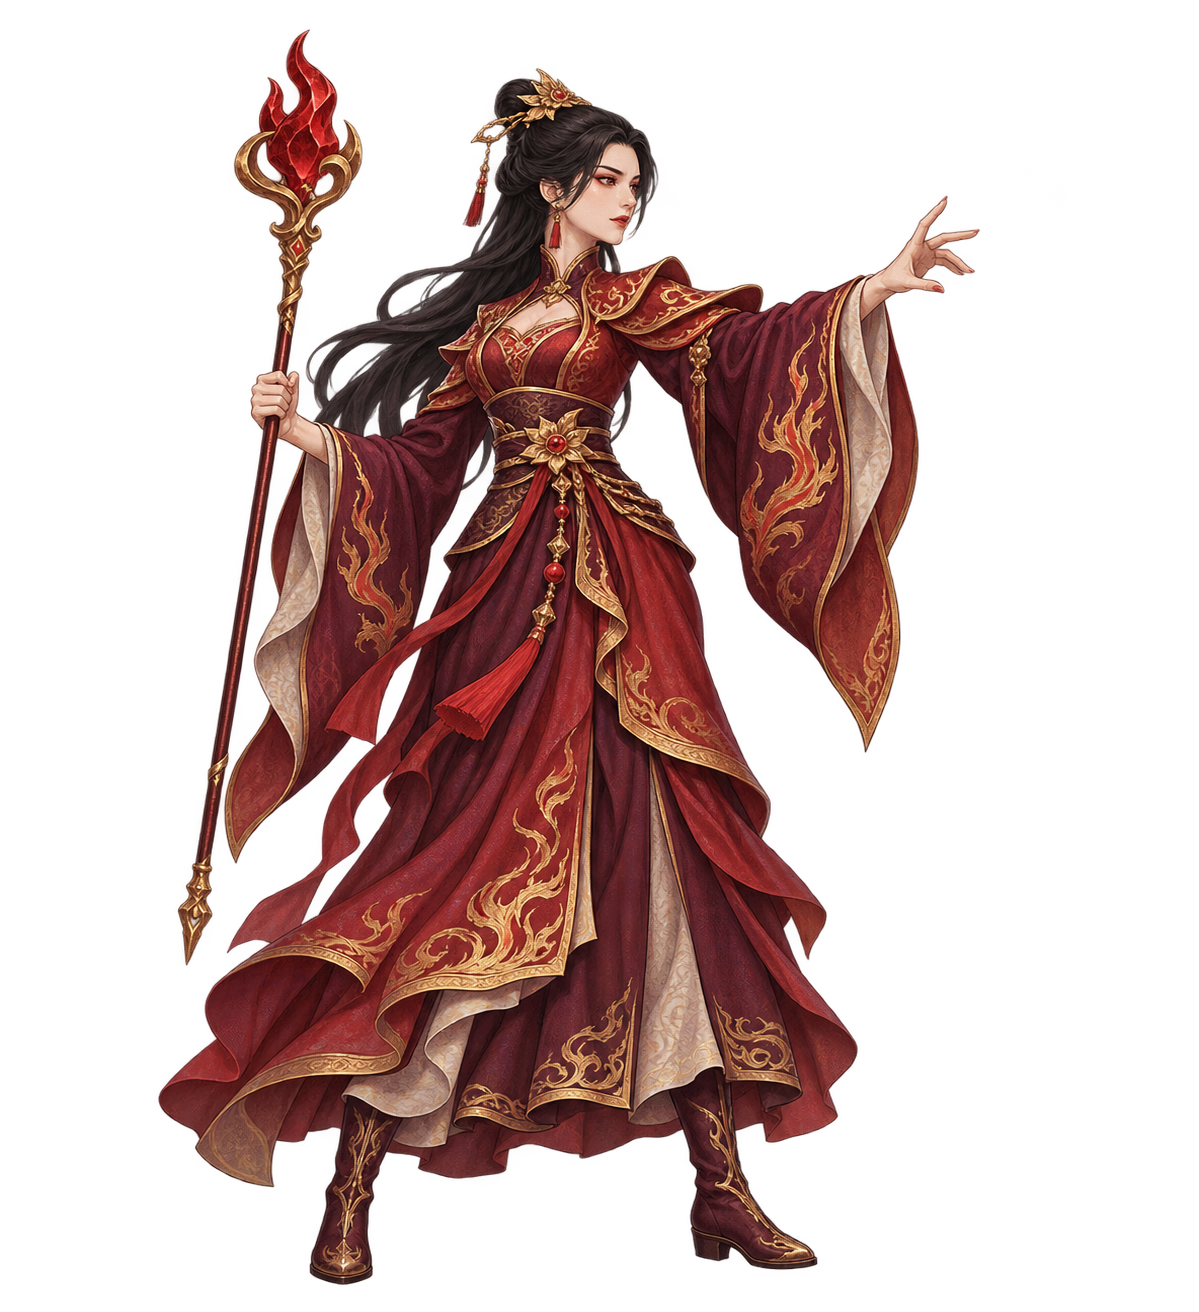
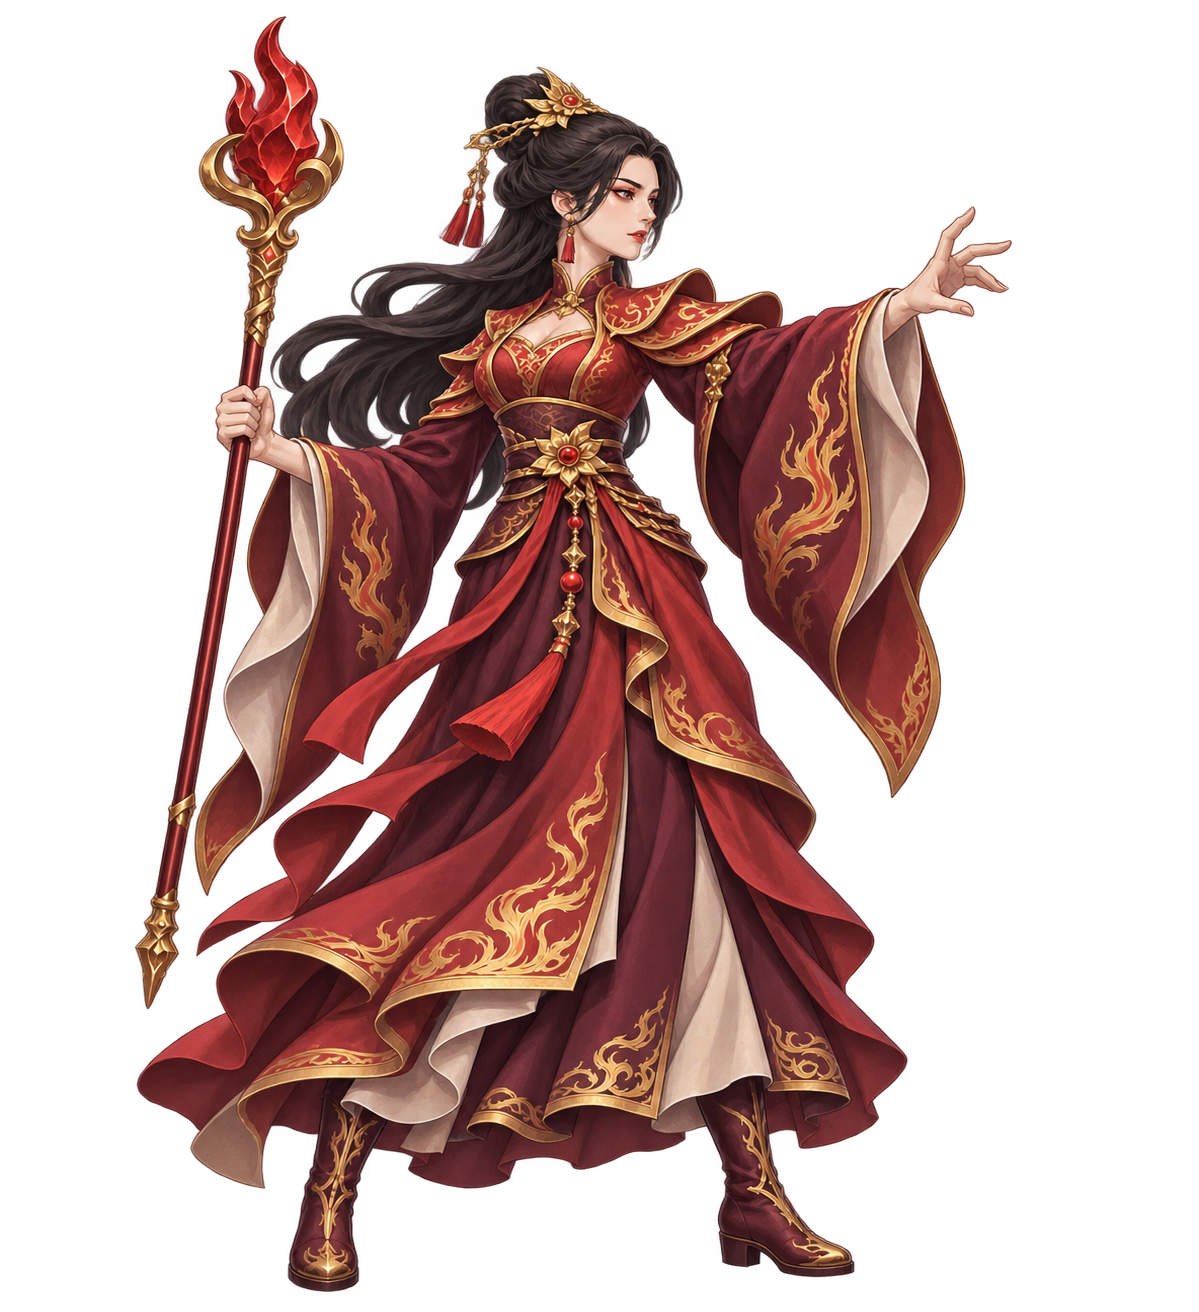
Adopt mage cloth readability improvement after real bright and dark A/B

diff --git a/assets/scripts/GameApp.ts b/assets/scripts/GameApp.ts
@@ -117,7 +117,7 @@ export class GameApp extends Component {
       left = Math.min(...edges); right = Math.max(...edges);
     } else {
       const art = this.fighterArt(unit.role, unit.heroId);
-      const bounds: Record<string, number[]> = { 'fighter-archer':[47,1091], 'fighter-mage':[158,980], 'fighter-blade':[92,1261], 'fighter-lotus':[170,1007], 'fighter-frost':[150,988], 'fighter-monk':[52,1150], 'fighter-guardian':[178,1022], 'fighter-healer':[129,1090], 'fighter-sword':[13,1216] };
+      const bounds: Record<string, number[]> = { 'fighter-archer':[47,1091], 'fighter-mage':[134,1012], 'fighter-blade':[92,1261], 'fighter-lotus':[170,1007], 'fighter-frost':[150,988], 'fighter-monk':[52,1150], 'fighter-guardian':[178,1022], 'fighter-healer':[129,1090], 'fighter-sword':[13,1216] };
       const [lo,hi] = bounds[art.name], scale = placement.bodyHeight / (art.groundY - art.bodyTop), mirror = unit.side === 'ally' ? 1 : -1;
       const edges = [lo,hi].map(x => placement.x + (x - art.groundX) * scale * mirror);
       left = Math.min(...edges); right = Math.max(...edges);
@@ -650,7 +650,7 @@ export class GameApp extends Component {
   // Future hero-specific illustrations supply their own anchors, not a shared crop.
   private fighterArt(role: string, heroId?: string) {
     if (heroId === 'archer') return { name: 'fighter-archer', groundX: 484, groundY: 1389, bodyTop: 25 };
-    if (heroId === 'mage') return { name: 'fighter-mage', groundX: 552, groundY: 1285, bodyTop: 70 };
+    if (heroId === 'mage') return { name: 'fighter-mage', groundX: 560, groundY: 1292, bodyTop: 66 };
     if (heroId === 'blade') return { name: 'fighter-blade', groundX: 459, groundY: 1183, bodyTop: 20 };
     if (heroId === 'lotus') return { name: 'fighter-lotus', groundX: 504, groundY: 1282, bodyTop: 45 };
     if (heroId === 'frost') return { name: 'fighter-frost', groundX: 528, groundY: 1283, bodyTop: 42 };

diff --git a/docs/independent-review.md b/docs/independent-review.md
@@ -186,3 +186,7 @@ b356e30 actual runtime follow-up: Creator 3.8.8 official release build succeeded
 A separate FighterMotion wrapper keeps source-pixel pose anchors, labels, ground shadow and minimap fixed. Only a sword single-target hostile hit receives bounded 12px approach and at most 6px target recoil; no rule/damage/timing changes. Impact remains at .14/speed, pose return at .34/speed inside the existing effects×.38 budget, with once/action/generation guards. Focus changes, clear and destroy cancel/reset offsets; death does not restore pose/color. Independent 164-test review passed; new Map traversal is explicit Array.from. The 45ms designed contact hold becomes 22.5ms at 2× and may be skipped by low frame rates. Unit timing calls are not evidence of actual Creator frame scheduling or smooth body animation. Formal release video/continuous-frame review remains required. Font regenerated identically; only manifest source hashes changed.
 
 The independently published mage A/B branch fc20098 remains based on b356e30, not merged into main. If that art is accepted later, update both fighterArt anchors and MOTION-01 contactRetreat silhouette bounds together (candidate mage horizontal alpha bounds134–1012 versus current158–980). The initial legitimate A/B checkpoint is stage8/330, commander level2, five heroes after normal play; an early stage7 interruption attempt had already settled and is not counted as interrupted. The actual stage8 opening capture/reload preserved8/330.
+
+### Mage A/B adoption (local readability improvement only)
+
+Candidate fc20098 imported and built with actual Creator3.8.8, identical metadata and matching imported PNG hash. Integration personally compared temple A95-20/B99-20, same mage-to-monk -25 event and HP, with different floating-number subframes; also enemy mage/guardian group views. Additional archived official builds ran on separate loopback-only origins with legitimate fresh1/80 saves: bamboo A102-24/B105-26, same mage-to-guardian -23 and HP. Both fresh saves remained1/80 after interruption; the normal8/330 and preview18/585 were not altered. Candidate cloth masses and red/gold separation are clearer, with no observed new crop, white rectangle or foot drift in those samples. Adopt this asset and anchors, synchronizing contactRetreat bounds too. Detailed hand anatomy at phone scale, complete roster consistency and actual body animation remain unaccepted. Both temporary static servers were stopped. Main integrated motion still requires its own official release recording.

diff --git a/assets/resources/art/README.md b/assets/resources/art/README.md
@@ -91,3 +91,7 @@ Shared generation specification: one original adult character, full head-to-toe 
 
[2 lines of base64/hex data omitted]
+
+## 赤璃绘制语言局部修订
+
[1 lines of base64/hex data omitted]

diff --git a/AI_BOARD.md b/AI_BOARD.md
@@ -132,3 +132,5 @@ GUIDE-01实现与纯模块已冻结，独立审查后修正两条误导建议；
 
 ### MOTION-01 凌霄单体接触切片（基线b356e30，独立于Mac受测版本）
 portrait-ui独占GameApp、展示motion纯模块/meta与相关测试；保留.38s事件预算和.14唯一命中，在art层做有限进退/目标受击响应，UI与阵盘不动，治疗/神通/群攻不复用。代际切换/死亡/清空归零，不能用通用抖图冒充完整动画。集成者审查并串行发布，Mac仍只QA操作。role-art仅仓库外原图运行时手指多边形遮罩实验，不改PNG或生产资产；portrait-art已建议保留赤璃候选做真实A/B，不盲目再生图。
+
+赤璃A/B完成实际寺院与独立新档竹林对照，集成者亲看同事件截图并决定采用B局部明暗改善；不等于最终美术通过。合入时同步fighterArt脚锚及contactRetreat轮廓界，保留UUID。MOTION-01已发布ee7fee9但尚未实包录帧，下一合并SHA统一复验。
